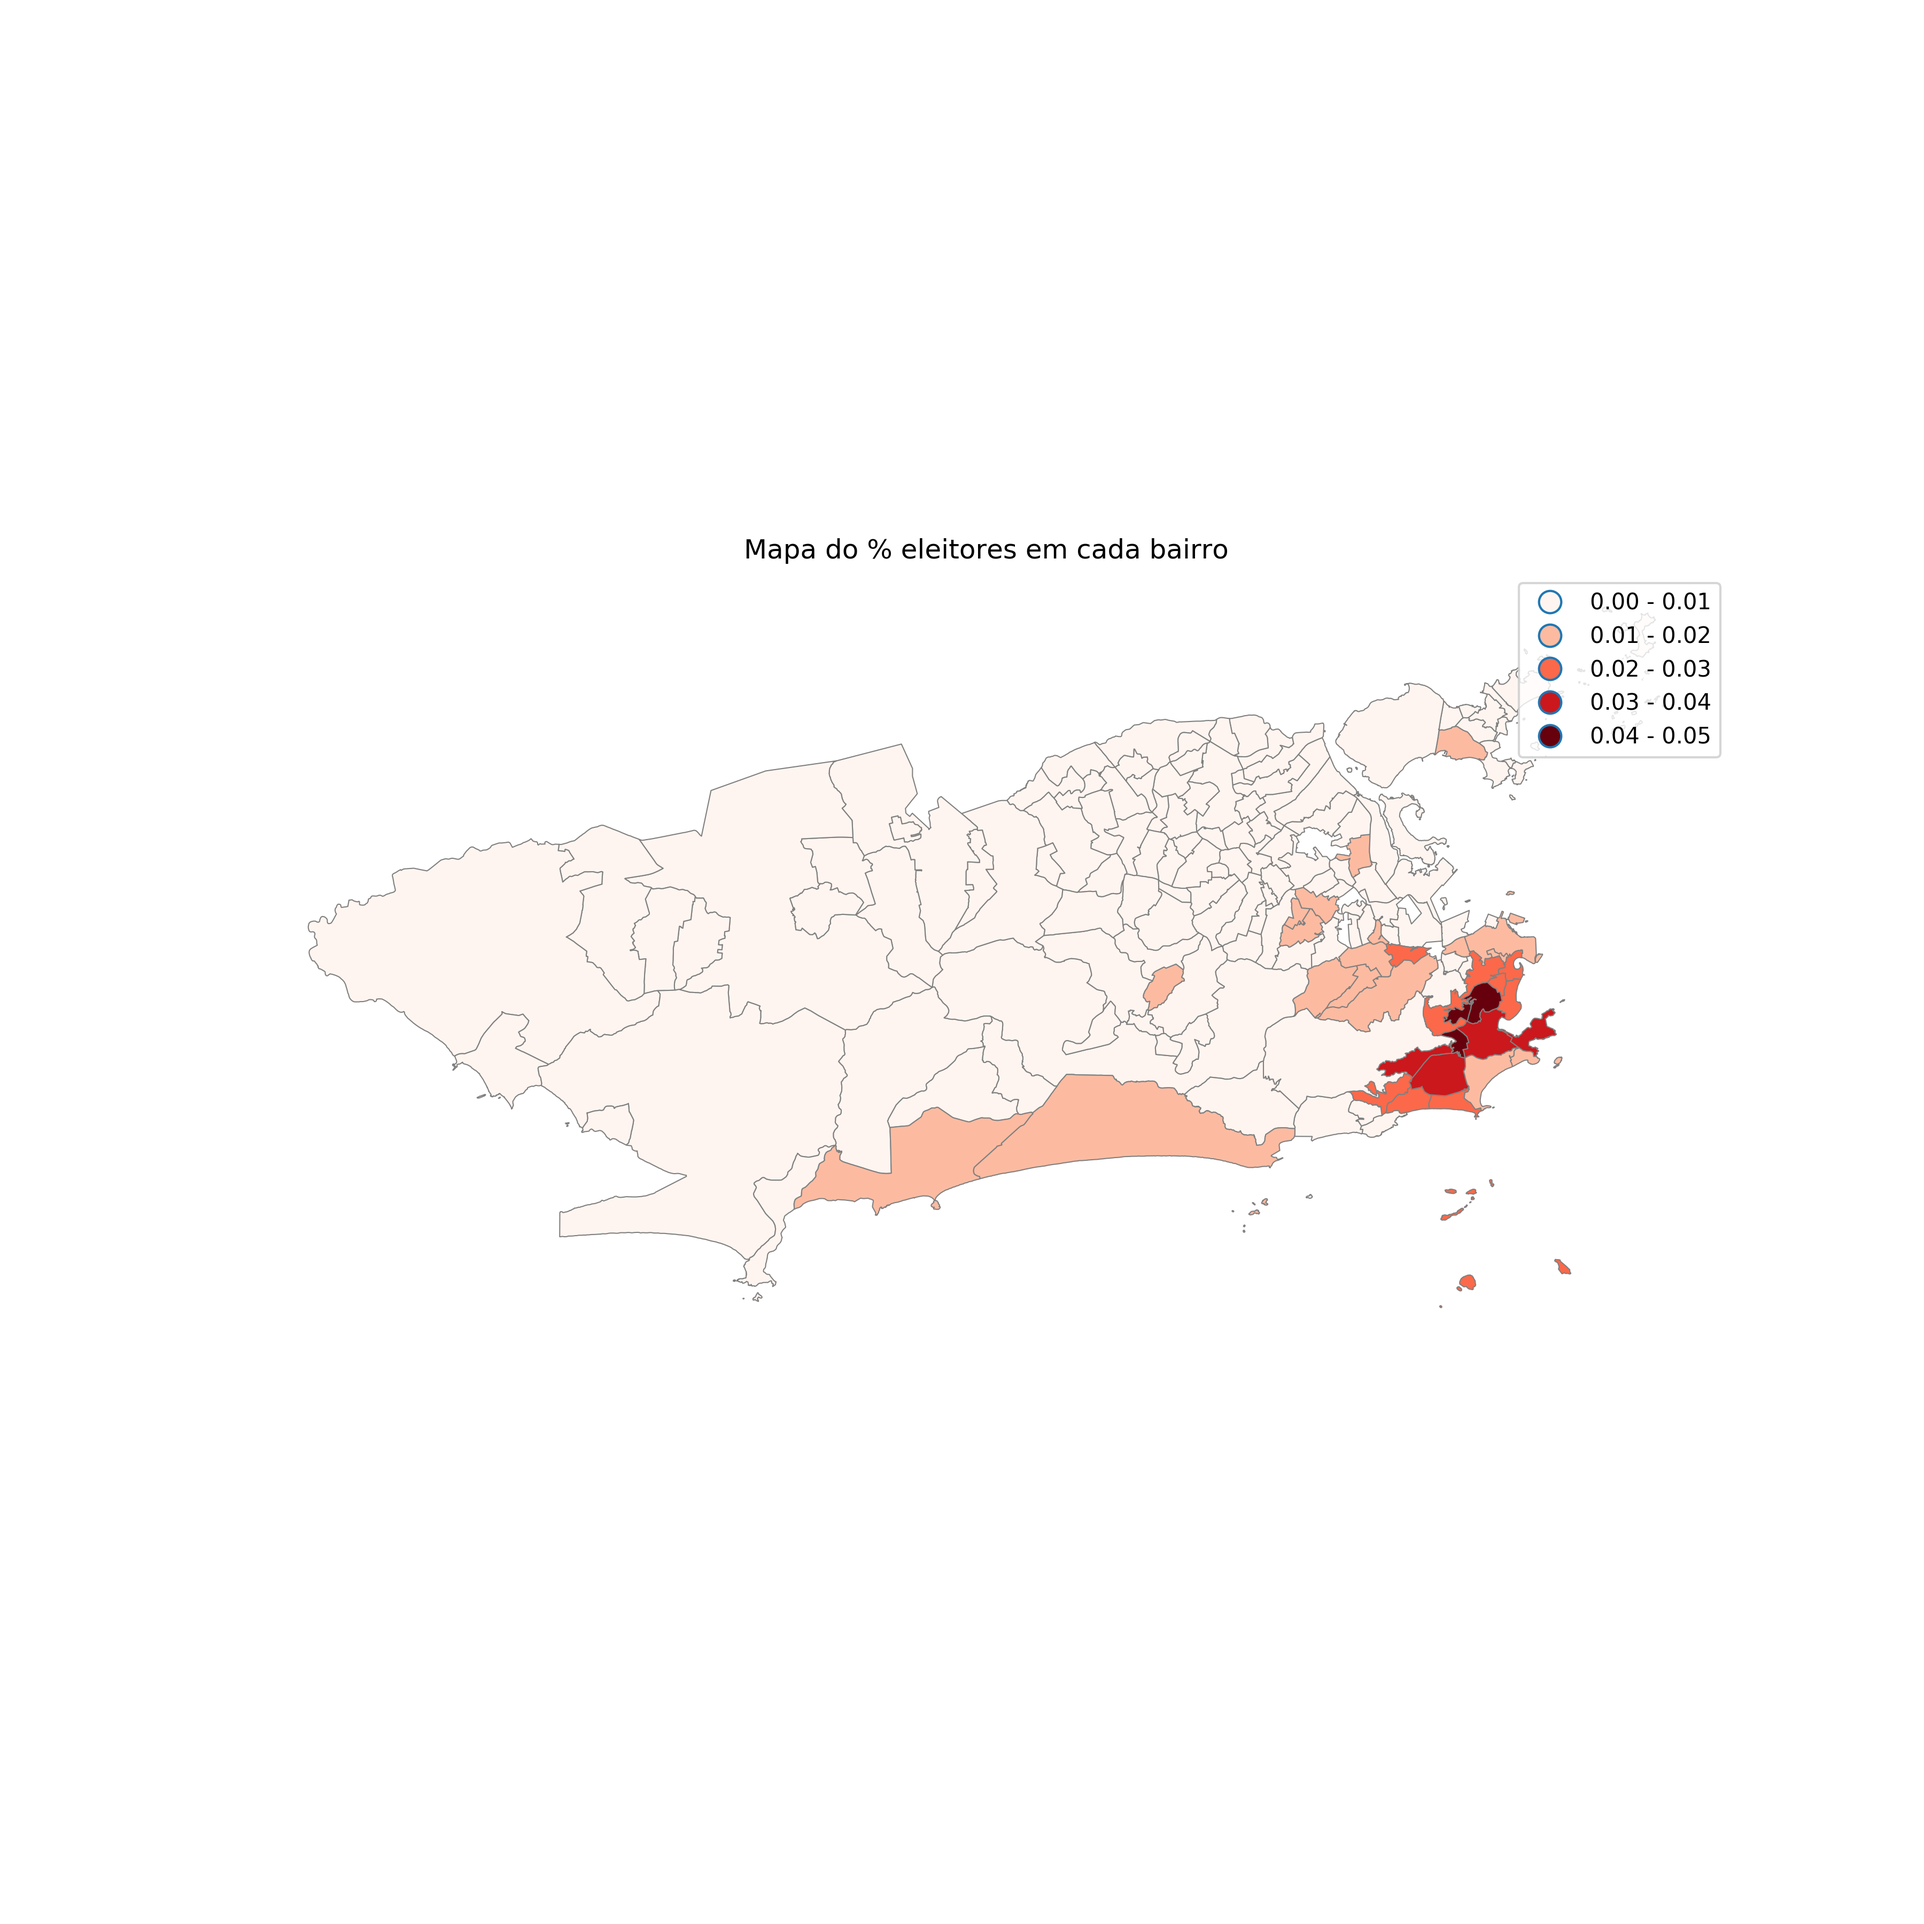
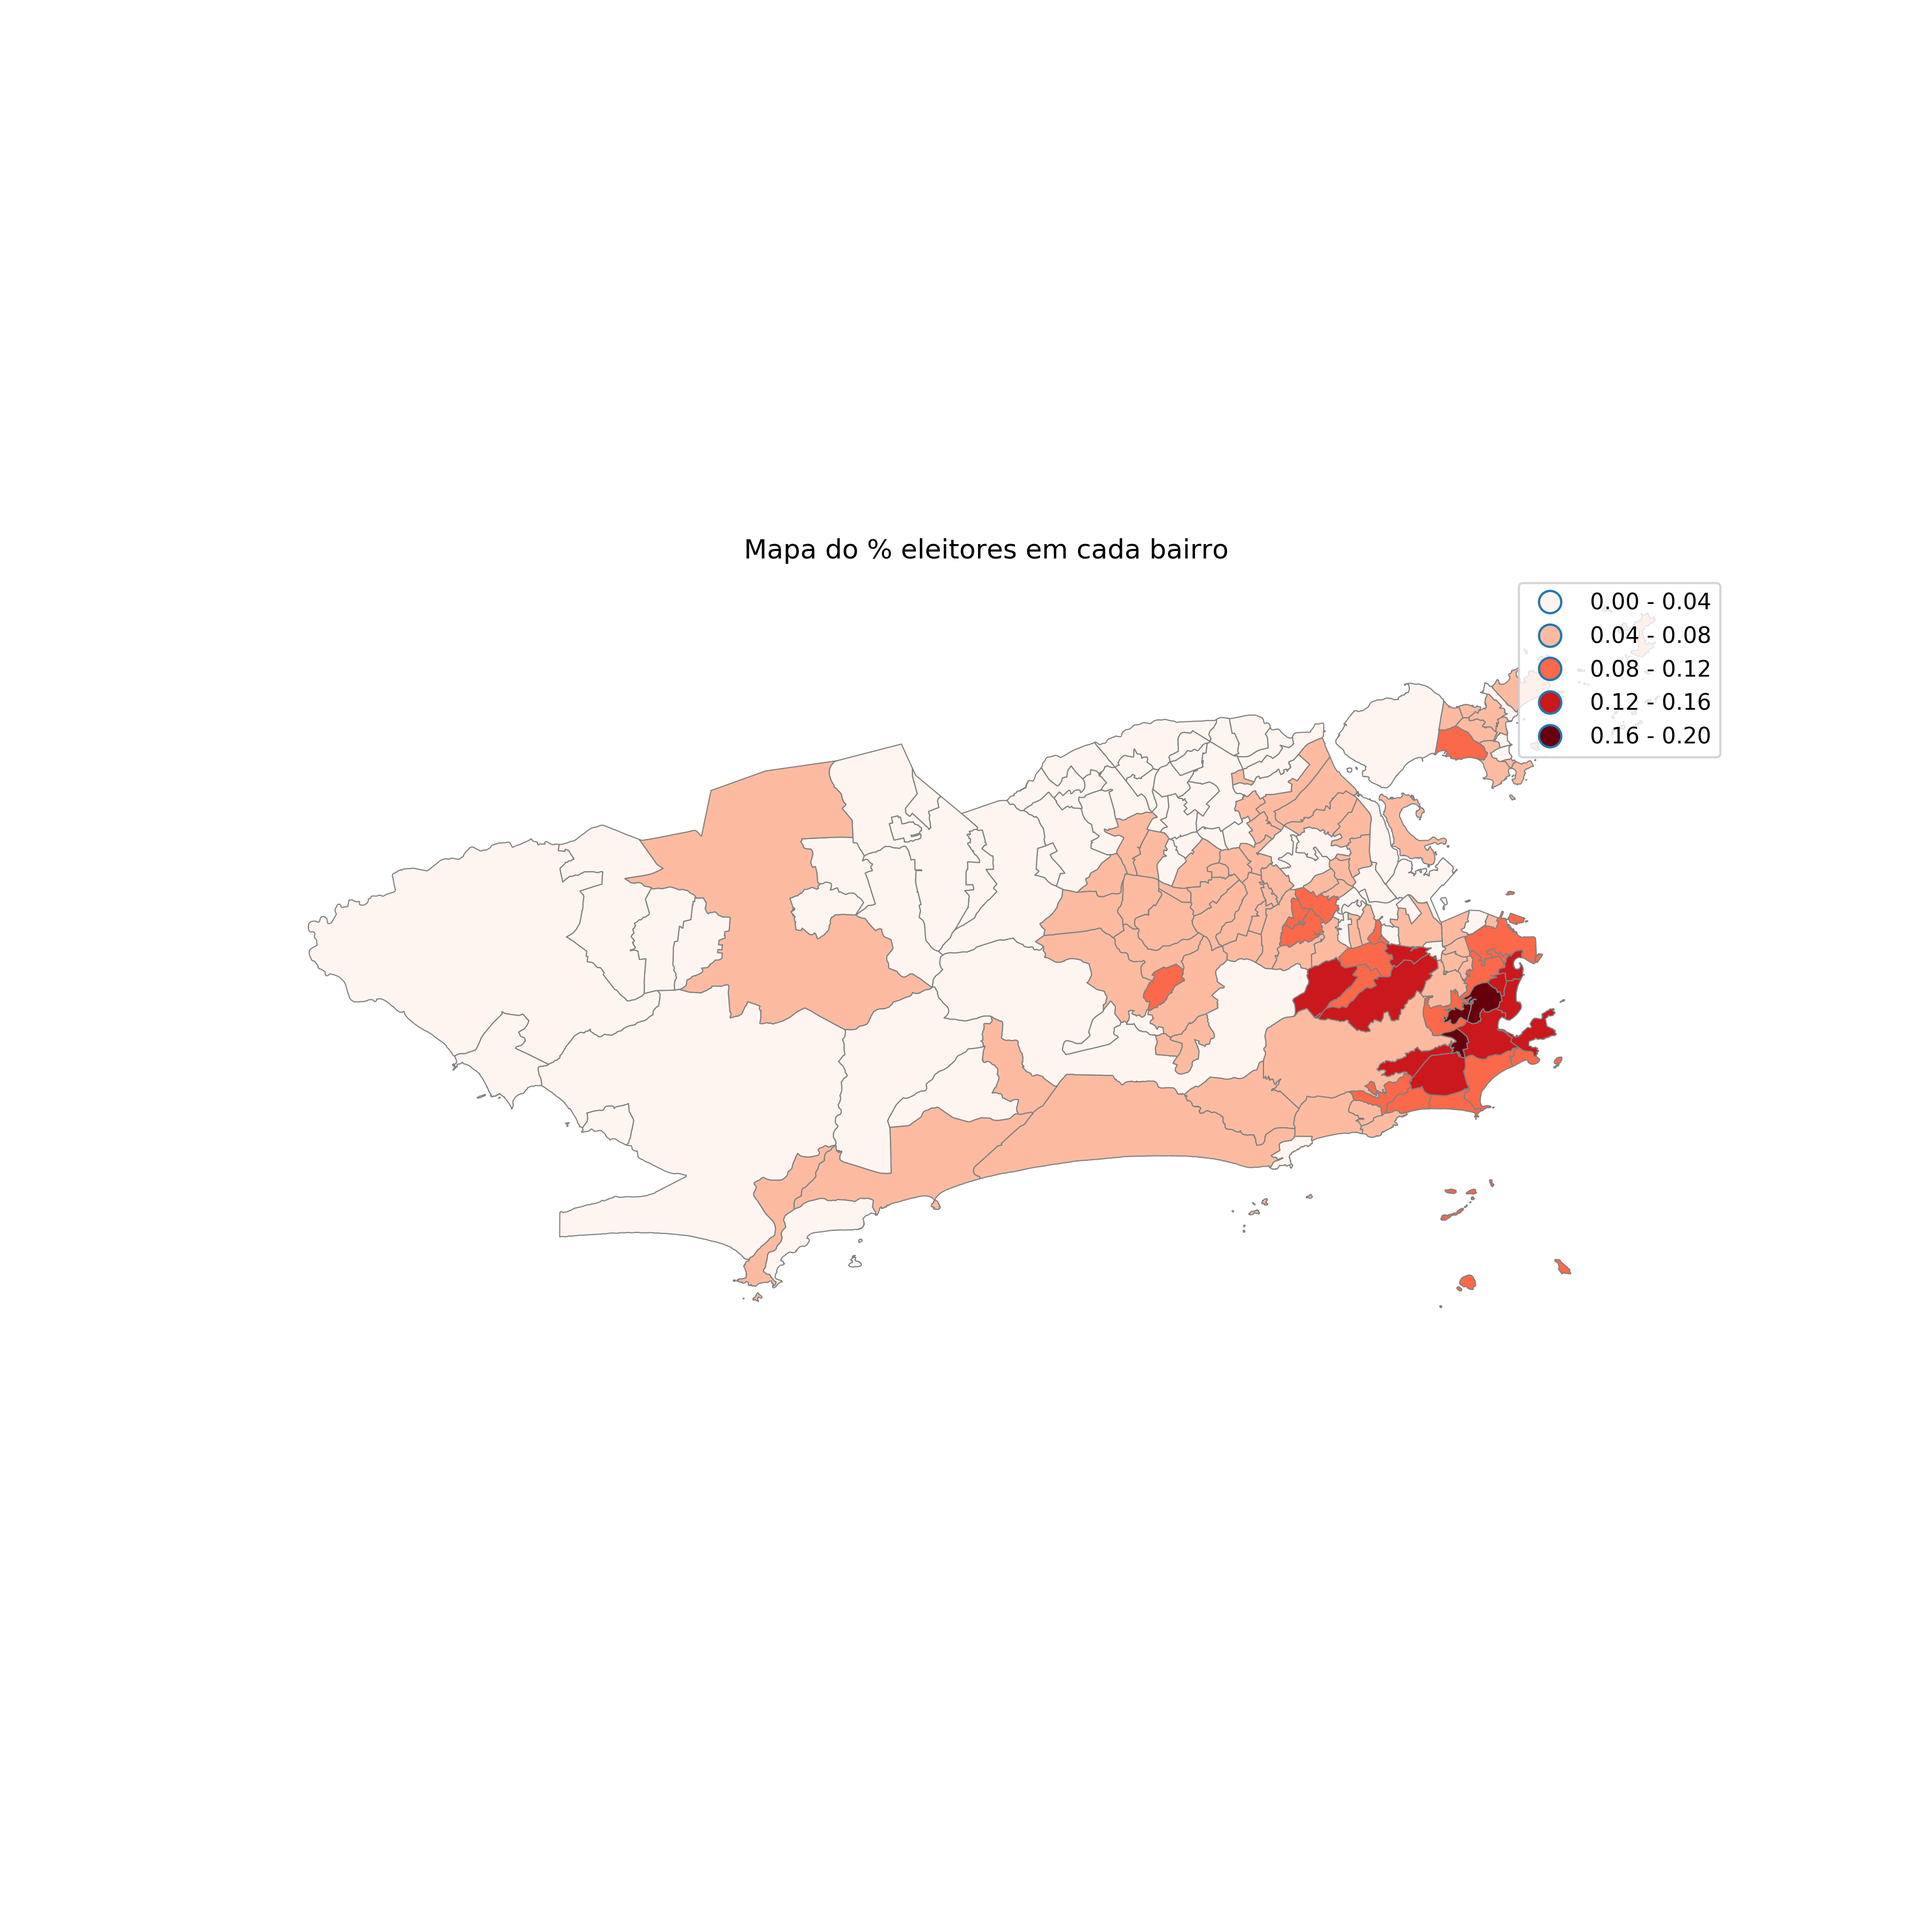
post 28-05-2018

diff --git a/_posts/2018-05-28-votos-psol.md b/_posts/2018-05-28-votos-psol.md
@@ -1,0 +1,89 @@
+---
+layout:     post
+title:      Onde estão os eleitores do PSOL no Rio de Janeiro
+date:       2018-05-28
+summary:    Começamos nosso novo post com essa pequena passagem do livro O Dezoito Brumário de Luis Bonaparte, do conhecido autor Karl Marx.
+categories: psol rj
+---
+
+
+# Onde estão os eleitores do PSOL no Rio de Janeiro
+
+>Contra a burguesia coligada fora formada uma coalizão de pequenos burgueses e operários, o chamado partido socialdemocrata. A pequena burguesia percebeu que  tinha  sido  mal  recompensada  depois  das  jornadas de  junho  de  1848,  que seus  interesses  materiais  corriam  perigo  e  que  as  garantias  democráticas  que deviam assegurar a efetivação desses interesses estavam sendo questionadas pela contra-revolução.  Em  vista  disto  aliara-se  aos  operários  (...).  Quebrou-se  o aspecto revolucionário das reivindicações sociais do proletariado e deu-se a elas uma    feição    democrática;    despiu-se    a    forma    puramente    política    das reivindicações  democráticas  da  pequena  burguesia  e ressaltou-se  seu  aspecto socialista.   Assim   surgia   a socialdemocracia.
+
+_(MARX,  Karl.  O 
+Dezoito Brumário de Luis Bonaparte, cit., v. 1, p. 
+226-227)_
+
+Começamos nosso novo post com essa pequena passagem do livro O Dezoito Brumário de Luis Bonaparte, do conhecido autor Karl Marx.
+
+Em nossa última postagem, analisamos a distribuição de votos por bairro, da vereadora Marielle Franco e verificamos que diferente do alegado por seu partido, Marielle foi escolhida como representante predonominantemente por eleitores de bairros de classe média alta da zona sul do Rio de Janeiro, tendo um resultado inexpressivo entre aqueles que pretendia representar.
+
+Afirmamos também que seu resultado eleitorial seguia um padrão que se repetia por todo seu partido. Gostaríamos de olhar mais atentamente para este padrão, olhando para os demais parlamentares do PSOL/RJ.
+
+Para nossa análise utilizamos os dados completos do relatório de urna do TRE. Dessa vez, não consideramos apenas os vereadores eleitos, mas todos os votos que o PSOL recebeu quer sejam em candidatos não eleitos ou sejam votos em legenda. 
+
+## **Vamos aos dados**
+
+Pelos dados de relatório de urna do TRE podemos facilmente filtrar os votos apenas para vereadores do PSOL. Usando os mesmos métodos do post anterior para agregar os dados em contagem de votos por bairro, chegamos a tabela abaixo:
+
+| Bairro                  | Votos | % do total |
+|-------------------------|-------|------------|
+| TIJUCA                  | 20861 | 7.343095   |
+| COPACABANA              | 15464 | 5.443345   |
+| CAMPO GRANDE            | 11718 | 4.124749   |
+| BOTAFOGO                | 9606  | 3.381323   |
+| LARANJEIRAS             | 8145  | 2.867049   |
+| BARRA DA TIJUCA         | 7297  | 2.568552   |
+| VILA ISABEL             | 6983  | 2.458024   |
+| MEIER                   | 6091  | 2.144039   |
+| FLAMENGO                | 5655  | 1.990566   |
+| TAQUARA                 | 5568  | 1.959942   |
+| BANGU                   | 5390  | 1.897286   |
+| LEBLON                  | 4795  | 1.687845   |
+| FREGUESIA (JACAREPAGUA) | 4664  | 1.641733   |
+| GRAJAU                  | 4581  | 1.612517   |
+| CATETE                  | 4305  | 1.515365   |
+
+Mais uma vez podemos ver que os bairros mais nobres como Tijuca, Copacabana, Botafogo, Barra entre outros estão entre os 15 bairros mais votados.
+
+Essa distribuição dos votos fica mais fácil de se perceber com o mapa da figura abaixo.
+
+![image](img/total.png)
+
+Como já discutimos no post anterior, uma crítica válida ao metodo de verificar os bairros por total de votos é que estamos sobre valorizando bairros muito populosos, como o caso da Tijuca. Dessa maneira, para tentar reduzir esse viés, vamos ver como ficam os dados se considerarmos o percentual de eleitores do bairro que votaram no PSOL. Isto é, quantos % dos eleitores votaram em qualquer candidato do PSOL. Dessa maneira podemos ver em quais bairros eles são mais influentes. 
+
+| Bairro          | Votos | % eleitorado |
+|-----------------|-------|--------------|
+| HUMAITA         | 3032  | 19.846829    |
+| LARANJEIRAS     | 8145  | 19.263972    |
+| COSME VELHO     | 1284  | 16.226463    |
+| MARACANA        | 2561  | 15.822316    |
+| GLORIA          | 1063  | 15.190054    |
+| LAGOA           | 1544  | 14.936635    |
+| BOTAFOGO        | 9606  | 14.921246    |
+| JARDIM BOTANICO | 3176  | 14.768658    |
+| FLAMENGO        | 5655  | 14.751148    |
+| URCA            | 1296  | 13.538076    |
+| GRAJAU          | 4581  | 13.312217    |
+| TIJUCA          | 20861 | 12.530183    |
+| CATETE          | 4305  | 12.351523    |
+| LEME            | 1579  | 11.739777    |
+| SANTA TERESA    | 2555  | 11.694434    |
+
+Como podemos ver na tabela acima, se considerarmos o percentual do eleitorado, temos um total dominio de bairros mais nobres da zona sul e grande Tijuca. Vamos ver como isso fica num mapa.
+
+![image](img/fracaobairro.png)
+
+
+Não satisfeitos, decidimos buscar na prefeitura os dados de distribuição de renda dos bairros. Utilizamos os mais recentes disponíveis na base, os de 2010. 
+
+Com os dados de renda mediana e percentual de eleitores de cada bairro, plotamos uma nuvém de pontos para avaliar se são mesmo bem correlacionados.
+
+![image](img/postpolitidados.png)
+
+Fica claro no gráfico acima que o PSOL performa muito melhor em bairros mais ricos. Destamos alguns exemplos paradigmaticos Lagoa e Humaitá, bairros ricos, onde o PSOL performa bem acima dos 10% de eleitorado, e Maré e Cosmos, áreas mais pobres da cidade onde estariam muitos de seus pretensos eleitores.
+
+
+Como podemos ver pelos os microdados disponibilizados pelo TSE, o PSOL é um partido que representa predominantemente a burguesia carioca, por mais que não goste de admitir ou se enxergar desta maneira. Na literatura marxista clássica, essa configuração partidária é chamada de "esquerda pequeno-burguesa". Ou seja, uma esquerda composta de burgueses que aderem ao socialismo por fetichismo estético e que se acredita representar os pobres desde uma perspectiva elitista e romantizada, incapaz de compreender o proletariado porque simplesmente não faz parte dele!
+
